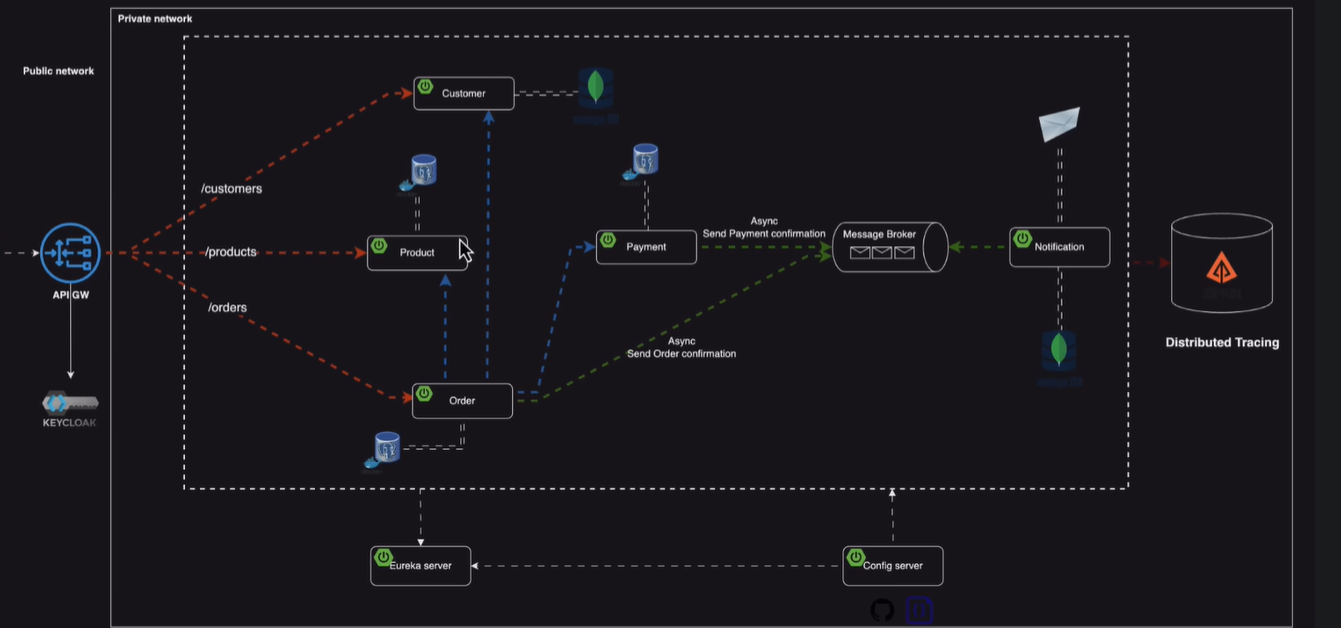
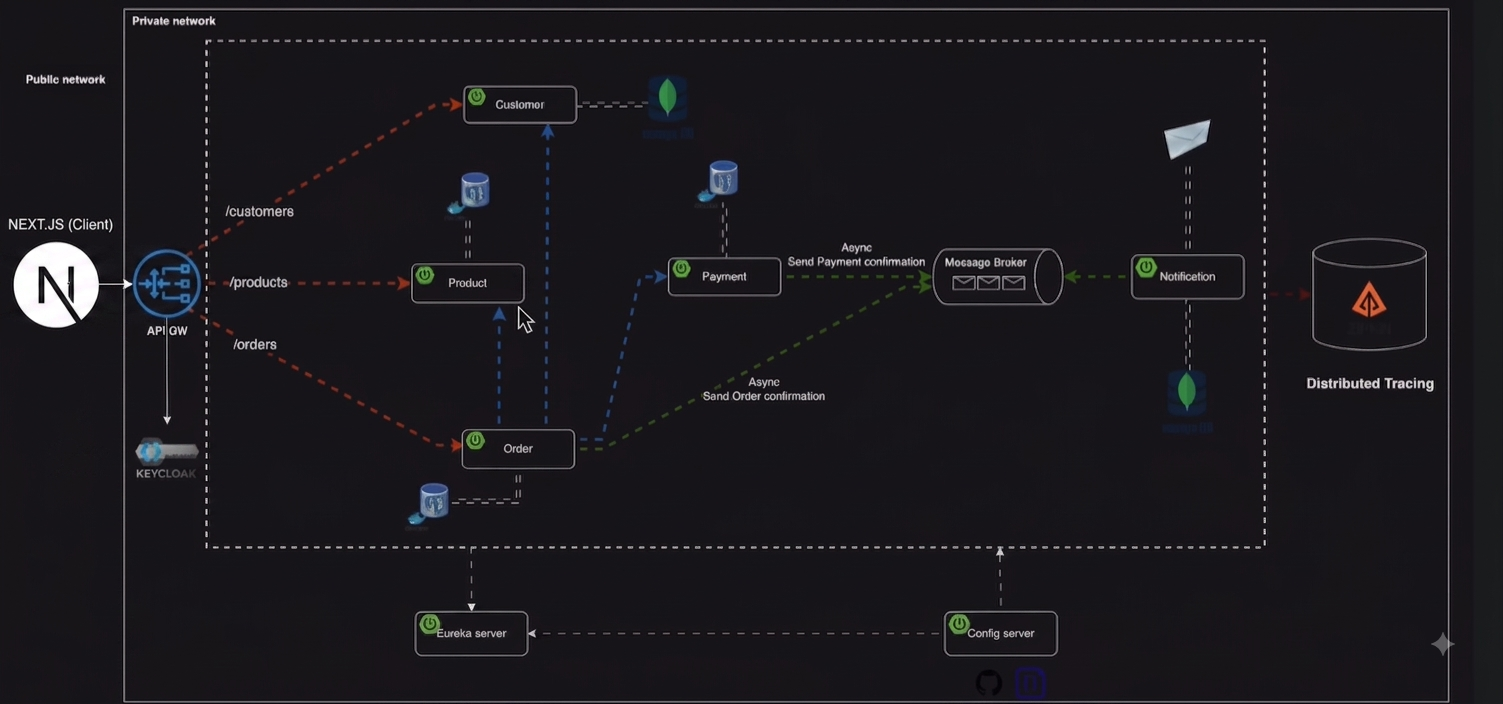
feat: add cart page with quantity management and item removal

diff --git a/ecommerce-frontend/app/(shop)/cart/page.tsx b/ecommerce-frontend/app/(shop)/cart/page.tsx
@@ -3,8 +3,9 @@
 import { useCartStore } from '@/store/cartStore';
 import { Button } from '@/components/ui/button';
 import { Card, CardContent, CardFooter, CardHeader, CardTitle } from '@/components/ui/card';
-import { Input } from '@/components/ui/input';
-import { Trash2, ShoppingBag, ArrowRight } from 'lucide-react';
+import { Separator } from '@/components/ui/separator';
+import { CartItemRow } from '@/components/shop/CartItemRow';
+import { ShoppingBag, ArrowRight } from 'lucide-react';
 import Link from 'next/link';
 import { useRouter } from 'next/navigation';
 import { useAuth } from '@/hooks/useAuth';
@@ -12,7 +13,17 @@ import { useAuth } from '@/hooks/useAuth';
 export default function CartPage() {
   const router = useRouter();
   const { isAuthenticated } = useAuth();
-  const { items, updateQuantity, removeItem, getTotalPrice, getTotalItems, clearCart } = useCartStore();
+  const {
+    items,
+    updateQuantity,
+    removeItem,
+    clearCart,
+    getTotalItems,
+    getTotalPrice,
+  } = useCartStore();
+
+  const totalItems = getTotalItems();
+  const totalPrice = getTotalPrice();
 
   const handleCheckout = () => {
     if (!isAuthenticated) {
@@ -24,7 +35,7 @@ export default function CartPage() {
 
   if (items.length === 0) {
     return (
-      <div className="text-center py-12">
+      <div className="py-12 text-center">
         <ShoppingBag className="mx-auto h-16 w-16 text-muted-foreground" />
         <h2 className="mt-4 text-2xl font-semibold">Votre panier est vide</h2>
         <p className="mt-2 text-muted-foreground">
@@ -39,74 +50,49 @@ export default function CartPage() {
 
   return (
     <div className="space-y-8">
-      <h1 className="text-3xl font-bold">Votre Panier</h1>
+      <h1 className="text-3xl font-bold">Votre panier</h1>
 
-      <div className="grid grid-cols-1 lg:grid-cols-3 gap-8">
-        <div className="lg:col-span-2 space-y-4">
-          {items.map((item) => (
-            <Card key={item.productId}>
-              <CardContent className="flex items-center gap-4 p-4">
-                <div className="flex-1">
-                  <p className="font-medium">{item.name}</p>
-                  <p className="text-sm text-muted-foreground">
-                    {item.price.toFixed(2)} € / unité
-                  </p>
-                </div>
-
-                <div className="flex items-center gap-2">
-                  <Button
-                    variant="outline"
-                    size="icon"
-                    onClick={() => updateQuantity(item.productId, item.quantity - 1)}
-                  >
-                    -
-                  </Button>
-                  <span className="w-8 text-center">{item.quantity}</span>
-                  <Button
-                    variant="outline"
-                    size="icon"
-                    onClick={() => updateQuantity(item.productId, item.quantity + 1)}
-                    disabled={item.quantity >= item.availableQuantity}
-                  >
-                    +
-                  </Button>
-                </div>
-
-                <div className="w-24 text-right">
-                  <p className="font-medium">
-                    {(item.price * item.quantity).toFixed(2)} €
-                  </p>
-                </div>
-
-                <Button
-                  variant="ghost"
-                  size="icon"
-                  onClick={() => removeItem(item.productId)}
-                >
-                  <Trash2 className="h-4 w-4 text-destructive" />
-                </Button>
-              </CardContent>
-            </Card>
-          ))}
-
-          <Button variant="outline" onClick={clearCart}>
-            Vider le panier
-          </Button>
+      <div className="grid grid-cols-1 gap-8 lg:grid-cols-3">
+        {/* Liste des articles */}
+        <div className="lg:col-span-2">
+          <div className="rounded-lg border">
+            <div className="p-4">
+              {items.map((item) => (
+                <CartItemRow
+                  key={item.productId}
+                  item={item}
+                  onUpdateQuantity={updateQuantity}
+                  onRemove={removeItem}
+                />
+              ))}
+            </div>
+            <div className="border-t p-4">
+              <Button variant="outline" onClick={clearCart}>
+                Vider le panier
+              </Button>
+            </div>
+          </div>
         </div>
 
+        {/* Résumé */}
         <div>
           <Card>
             <CardHeader>
-              <CardTitle>Résumé</CardTitle>
+              <CardTitle>Résumé de la commande</CardTitle>
             </CardHeader>
             <CardContent className="space-y-4">
               <div className="flex justify-between">
-                <span>Articles ({getTotalItems()})</span>
-                <span>{getTotalPrice().toFixed(2)} €</span>
+                <span>Articles ({totalItems})</span>
+                <span>{totalPrice.toFixed(2)} €</span>
               </div>
-              <div className="flex justify-between font-bold text-lg border-t pt-4">
+              <div className="flex justify-between text-sm text-muted-foreground">
+                <span>Frais de livraison</span>
+                <span>Calculé à l'étape suivante</span>
+              </div>
+              <Separator />
+              <div className="flex justify-between text-lg font-bold">
                 <span>Total</span>
-                <span>{getTotalPrice().toFixed(2)} €</span>
+                <span>{totalPrice.toFixed(2)} €</span>
               </div>
             </CardContent>
             <CardFooter>

diff --git a/ecommerce-frontend/components/shop/CartItemRow.tsx b/ecommerce-frontend/components/shop/CartItemRow.tsx
@@ -1,0 +1,64 @@
+'use client';
+
+import { Button } from '@/components/ui/button';
+import { Trash2, Minus, Plus } from 'lucide-react';
+
+// On va définir le type ici directement pour éviter l'erreur
+type CartItemType = {
+  productId: number;
+  name: string;
+  price: number;
+  quantity: number;
+  availableQuantity: number;
+};
+
+interface CartItemRowProps {
+  item: CartItemType;
+  onUpdateQuantity: (productId: number, quantity: number) => void;
+  onRemove: (productId: number) => void;
+}
+
+export function CartItemRow({ item, onUpdateQuantity, onRemove }: CartItemRowProps) {
+  return (
+    <div className="flex items-center gap-4 border-b py-4">
+      <div className="flex-1">
+        <p className="font-medium">{item.name}</p>
+        <p className="text-sm text-muted-foreground">
+          {item.price.toFixed(2)} € / unité
+        </p>
+      </div>
+
+      <div className="flex items-center gap-2">
+        <Button
+          variant="outline"
+          size="icon"
+          onClick={() => onUpdateQuantity(item.productId, item.quantity - 1)}
+        >
+          <Minus className="h-4 w-4" />
+        </Button>
+        <span className="w-8 text-center">{item.quantity}</span>
+        <Button
+          variant="outline"
+          size="icon"
+          onClick={() => onUpdateQuantity(item.productId, item.quantity + 1)}
+          disabled={item.quantity >= item.availableQuantity}
+        >
+          <Plus className="h-4 w-4" />
+        </Button>
+      </div>
+
+      <div className="w-24 text-right font-medium">
+        {(item.price * item.quantity).toFixed(2)} €
+      </div>
+
+      <Button
+        variant="ghost"
+        size="icon"
+        onClick={() => onRemove(item.productId)}
+        className="text-destructive"
+      >
+        <Trash2 className="h-4 w-4" />
+      </Button>
+    </div>
+  );
+}
